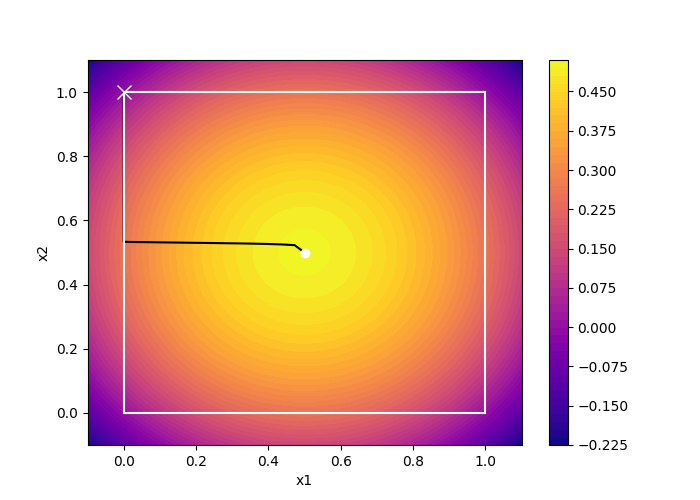
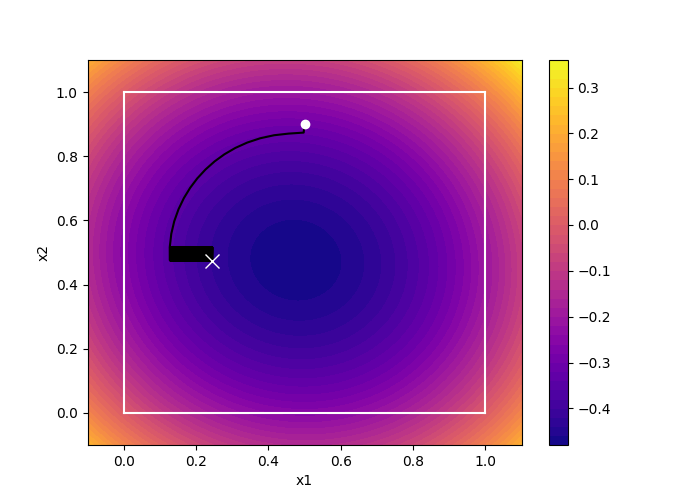
dealt with zero gradient pb at initialization in initial_ascent func

diff --git a/hmip/hopfield.py b/hmip/hopfield.py
@@ -157,26 +157,34 @@ def initial_state(H, q, lb, ub, binary_indicator, k_max, smoothness_coeff, x_0,
     if x_0 is None or not utils.is_in_box(x_0, ub, lb):
         # x_0 = lb + (ub - lb) / 2
         x_0 = lb + (ub - lb) / 2
-        grad_f = 1;
+        n = len(x_0)
+        grad_f = 1
 
     if initial_ascent_type is 'ascent':
         k = 0
         while k < k_max and utils.is_in_box(x_0, ub - ascent_stop_criterion, lb + ascent_stop_criterion) \
                 and np.linalg.norm(grad_f) > 10 ^ -6:
             grad_f = np.dot(H, x_0) + q
+            # Make sure initial point is not stuck at gradient=0 at the initial point
+            if k is 0 and np.linalg.norm(grad_f) == 0:
+                grad_f = (smoothness_coeff / 10) * (np.random.rand(n) - 0.5)
             x_0 = x_0 + (1 / smoothness_coeff) * grad_f
             k = k + 1
-        x_0 = activation(x_0, lb + ascent_stop_criterion, ub - ascent_stop_criterion, np.ones(len(x_0)),
+        x_0 = activation(x_0, lb + ascent_stop_criterion, ub - ascent_stop_criterion, np.ones(n),
                          activation_type='pwl')
 
 
     elif initial_ascent_type is 'binary_neutral_ascent':
         k = 0
-        while k < k_max and utils.is_in_box(x_0, ub - ascent_stop_criterion, lb + ascent_stop_criterion) and np.linalg.norm(grad_f) > 10 ^ -6:
+        while k < k_max and utils.is_in_box(x_0, ub - ascent_stop_criterion, lb + ascent_stop_criterion) \
+                and np.linalg.norm(grad_f) > 10 ^ -6:
             grad_f = np.dot(H, x_0) + q
-            x_0 = x_0 + (1 / smoothness_coeff) * np.multiply(grad_f, np.ones(len(x_0)) - binary_indicator)
+            # Make sure initial point is not stuck at gradient=0 at the initial point
+            if k is 0 and np.linalg.norm(grad_f) == 0:
+                grad_f = (smoothness_coeff / 10) * (np.random.rand(n) - 0.5)
+            x_0 = x_0 + (1 / smoothness_coeff) * np.multiply(grad_f, np.ones(n) - binary_indicator)
             k = k + 1
-        x_0 = activation(x_0, lb + ascent_stop_criterion, ub - ascent_stop_criterion, np.ones(len(x_0)),
+        x_0 = activation(x_0, lb + ascent_stop_criterion, ub - ascent_stop_criterion, np.ones(n),
                          activation_type='pwl')
 
     return x_0

diff --git a/visualizations/example_visualization.py b/visualizations/example_visualization.py
@@ -4,8 +4,8 @@ import hmip.hopfield as hop
 import visualizations.utils_visuals as visuals
 
 
-H = np.array([[-2, 0], [0, -2]])
-q = np.array([1, 1])
+H = np.array([[2, 0.1], [0, 2]])
+q = np.array([-1, -1])
 k_max = 1000
 binary_indicator = np.array([1, 0])
 ub = np.array([1, 1])
